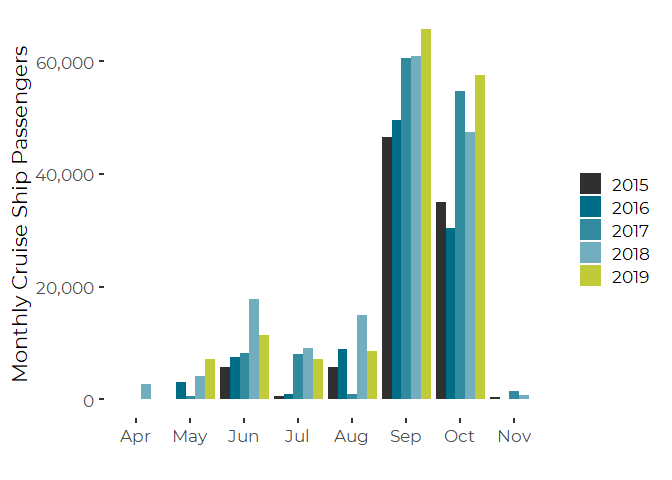
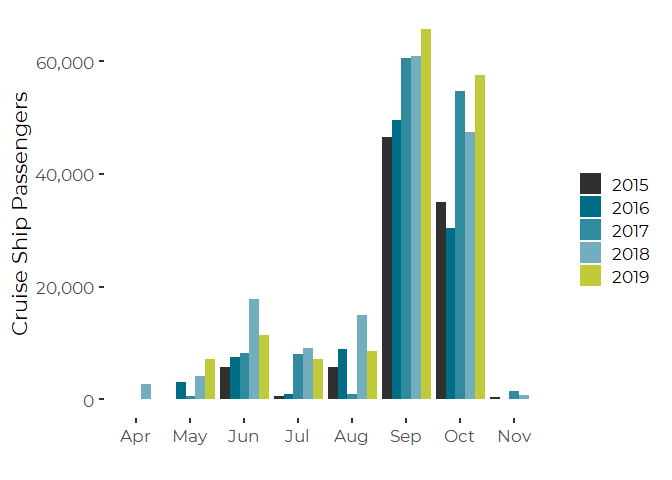
Minor edits to text and headers

Changed region(s): [[0.0, 0.0938, 0.0625, 0.8125]]

diff --git a/Analysis/Analysis_Cruise_Ship_Data.md b/Analysis/Analysis_Cruise_Ship_Data.md
@@ -9,8 +9,8 @@ Curtis C. Bohlen, Casco Bay Estuary Partnership
   - [Strategy](#strategy)
   - [Annual Totals](#annual-totals)
       - [Table](#table)
-  - [Graphics for visits and
-    passengers](#graphics-for-visits-and-passengers)
+  - [Graphics for Visits and
+    Passengers](#graphics-for-visits-and-passengers)
   - [Graphics for Ship Size](#graphics-for-ship-size)
   - [Seasonal Patterns](#seasonal-patterns)
 
@@ -121,8 +121,6 @@ do they spend in Port?
 
 # Annual Totals
 
-## Table
-
 ``` r
 annual_data <- the_data %>%
   select(-c(2:10)) %>%
@@ -136,6 +134,8 @@ annual_data <- the_data %>%
 ```
 
     ## `summarise()` ungrouping output (override with `.groups` argument)
+
+## Table
 
 ``` r
 knitr::kable(annual_data,
@@ -151,7 +151,7 @@ knitr::kable(annual_data,
 | 2018 |    110 |     157853 |            1448.2 |                   795 |                 641 |                     663 |
 | 2019 |    106 |     157589 |            1486.7 |                  1805 |                 665 |                     856 |
 
-# Graphics for visits and passengers
+# Graphics for Visits and Passengers
 
 ``` r
 annual_data %>% 
@@ -224,7 +224,7 @@ ggplot(aes(loa, pax))+
 So, the two strongest clusters are for ships under 350 feet, with
 typically under 500 passengers, and over 900 feet with over about 1500
 
-Lets look at a cross tab like that.
+Lets look at a cross tab to roughly optimize classifications.
 
 ``` r
 loacat = cut(the_data$loa, breaks = c(0, 350, 900, 5000), labels = c("Small", "Medium", "Large"))
@@ -339,7 +339,7 @@ monthly_data2 <- monthly_data %>%
 ggplot(monthly_data2, aes(Month,visits, group=year)) +
   geom_col(aes(fill=factor(year)),
            position=position_dodge(preserve = 'single')) +
-  ylab('Monthly Cruise Ship Visits') +
+  ylab('Cruise Ship Visits') +
   xlab('') +
   scale_fill_manual(values = cbep_colors2(), name = '') +
   theme_cbep()
@@ -356,7 +356,7 @@ ggsave('visitbymonth.png', type = 'cairo',   width = 7, height = 5)
 ggplot(monthly_data2, aes(Month, passengers, group=year)) +
   geom_col(aes(fill=factor(year)),
            position=position_dodge(preserve = 'single')) +
-  ylab('Monthly Cruise Ship Passengers') +
+  ylab('Cruise Ship Passengers') +
   xlab('') +
   scale_fill_manual(values = cbep_colors2(), name = '') +
   scale_y_continuous(labels = scales::comma) +
